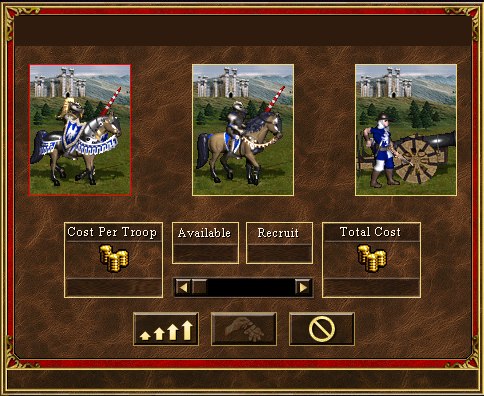
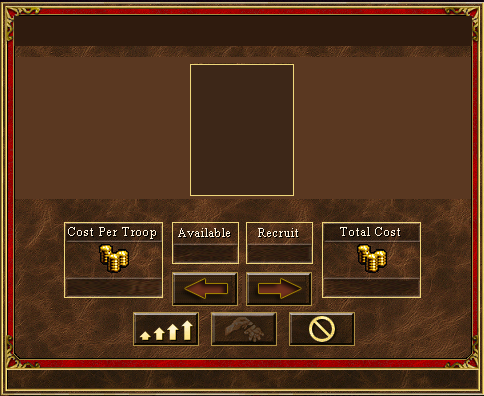
Design of overview => popup msg

Changed region(s): [[0.031, 0.1212, 0.9917, 0.5152], [0.3409, 0.6667, 0.6508, 0.7879], [0.6508, 0.1515, 0.6818, 0.1818]]

diff --git a/public/app/overview/overview.html b/public/app/overview/overview.html
@@ -1,1 +1,1 @@
-<div class="container"><div class="jumbotron"><h1>Overview Page</h1><p>Stats about how much Xp you have, how much gold and all game stats (including your castle information)</p><div class="center-block text-center"><div ng-click="recruit(100)" id="overview-panel" style="width: 800px; height: 556px; margin: 0 auto"><div id="data-filler" style="position: absolute; z-index: 100; color: #fff; line-height: 15px; font-size: 15px"><span style="position: absolute; left:120px; top:133px; z-index: 500">{{ userTroops.user.troops[0] }}</span><div><span style="position: absolute; left:360px; top:26px; z-index: 500">{{ troopsInfo[0].attack }}</span><span style="position: absolute; left:360px; top:46px; z-index: 500">{{ troopsInfo[0].defense }}</span><span style="position: absolute; left:360px; top:68px; z-index: 500">{{ troopsInfo[0].damage }}</span><span style="position: absolute; left:360px; top:88px; z-index: 500">{{ troopsInfo[0].health }}</span><span style="position: absolute; left:360px; top:108px; z-index: 500">{{ troopsInfo[0].speed }}</span><span style="position: absolute; left:360px; top:128px; z-index: 500">{{ troopsInfo[0].growth }}</span></div><span style="position: absolute; left:513px; top:133px; z-index: 500">{{ userTroops.user.troops[1] }}</span><div><span style="position: absolute; left:750px; top:26px; z-index: 500">{{ troopsInfo[1].attack }}</span><span style="position: absolute; left:750px; top:46px; z-index: 500">{{ troopsInfo[1].defense }}</span><span style="position: absolute; left:750px; top:68px; z-index: 500">{{ troopsInfo[1].damage }}</span><span style="position: absolute; left:750px; top:88px; z-index: 500">{{ troopsInfo[1].health }}</span><span style="position: absolute; left:750px; top:108px; z-index: 500">{{ troopsInfo[1].speed }}</span><span style="position: absolute; left:750px; top:128px; z-index: 500">{{ troopsInfo[1].growth }}</span></div><span style="position: absolute; left:120px; top:266px; z-index: 500">{{ userTroops.user.troops[2] }}</span><div><span style="position: absolute; left:360px; top:159px; z-index: 500">{{ troopsInfo[2].attack }}</span><span style="position: absolute; left:360px; top:179px; z-index: 500">{{ troopsInfo[2].defense }}</span><span style="position: absolute; left:360px; top:201px; z-index: 500">{{ troopsInfo[2].damage }}</span><span style="position: absolute; left:360px; top:221px; z-index: 500">{{ troopsInfo[2].health }}</span><span style="position: absolute; left:360px; top:241px; z-index: 500">{{ troopsInfo[2].speed }}</span><span style="position: absolute; left:360px; top:261px; z-index: 500">{{ troopsInfo[2].growth }}</span></div><span style="position: absolute; left:513px; top:266px; z-index: 500">{{ userTroops.user.troops[3] }}</span><div><span style="position: absolute; left:750px; top:159px; z-index: 500">{{ troopsInfo[3].attack }}</span><span style="position: absolute; left:750px; top:179px; z-index: 500">{{ troopsInfo[3].defense }}</span><span style="position: absolute; left:750px; top:201px; z-index: 500">{{ troopsInfo[3].damage }}</span><span style="position: absolute; left:750px; top:221px; z-index: 500">{{ troopsInfo[3].health }}</span><span style="position: absolute; left:750px; top:241px; z-index: 500">{{ troopsInfo[3].speed }}</span><span style="position: absolute; left:750px; top:261px; z-index: 500">{{ troopsInfo[3].growth }}</span></div><span style="position: absolute; left:120px; top:400px; z-index: 500">{{ userTroops.user.troops[4] }}</span><div><span style="position: absolute; left:360px; top:292px; z-index: 500">{{ troopsInfo[4].attack }}</span><span style="position: absolute; left:360px; top:312px; z-index: 500">{{ troopsInfo[4].defense }}</span><span style="position: absolute; left:360px; top:334px; z-index: 500">{{ troopsInfo[4].damage }}</span><span style="position: absolute; left:360px; top:354px; z-index: 500">{{ troopsInfo[4].health }}</span><span style="position: absolute; left:360px; top:374px; z-index: 500">{{ troopsInfo[4].speed }}</span><span style="position: absolute; left:360px; top:394px; z-index: 500">{{ troopsInfo[4].growth }}</span></div><span style="position: absolute; left:513px; top:400px; z-index: 500">{{ userTroops.user.troops[5] }}</span><div><span style="position: absolute; left:750px; top:292px; z-index: 500">{{ troopsInfo[5].attack }}</span><span style="position: absolute; left:750px; top:312px; z-index: 500">{{ troopsInfo[5].defense }}</span><span style="position: absolute; left:750px; top:334px; z-index: 500">{{ troopsInfo[5].damage }}</span><span style="position: absolute; left:750px; top:354px; z-index: 500">{{ troopsInfo[5].health }}</span><span style="position: absolute; left:750px; top:374px; z-index: 500">{{ troopsInfo[5].speed }}</span><span style="position: absolute; left:750px; top:394px; z-index: 500">{{ troopsInfo[5].growth }}</span></div><span style="position: absolute; left:313px; top:532px; z-index: 500">{{ userTroops.user.troops[6] }}</span><div><span style="position: absolute; left:550px; top:425px; z-index: 500">{{ troopsInfo[6].attack }}</span><span style="position: absolute; left:550px; top:445px; z-index: 500">{{ troopsInfo[6].defense }}</span><span style="position: absolute; left:550px; top:467px; z-index: 500">{{ troopsInfo[6].damage }}</span><span style="position: absolute; left:550px; top:487px; z-index: 500">{{ troopsInfo[6].health }}</span><span style="position: absolute; left:550px; top:509px; z-index: 500">{{ troopsInfo[6].speed }}</span><span style="position: absolute; left:550px; top:529px; z-index: 500">{{ troopsInfo[6].growth }}</span></div></div><img src="img/overview.gif"/></div></div></div></div>
+<div class="container"><div class="jumbotron"><h1>Overview Page</h1><p>Stats about how much Xp you have, how much gold and all game stats (including your castle information)</p><div class="center-block text-center"><div id="overview-panel" style="position: relative; width: 800px; height: 556px; margin: 0 auto"><div id="data-filler" style="position: absolute; z-index: 100; color: #fff; line-height: 15px; font-size: 15px"><div ng-click="recruit(troopsInfo[0])" style="position: absolute; left: 0; top: 0; width: 400px; height: 150px; z-index: 1000"><span style="position: absolute; left:120px; top:133px; z-index: 500">{{ userTroops.castle[0].troopsForSale[0] }}</span><div><span style="position: absolute; left:360px; top:26px; z-index: 500">{{ troopsInfo[0].attack }}</span><span style="position: absolute; left:360px; top:46px; z-index: 500">{{ troopsInfo[0].defense }}</span><span style="position: absolute; left:360px; top:68px; z-index: 500">{{ troopsInfo[0].damage }}</span><span style="position: absolute; left:360px; top:88px; z-index: 500">{{ troopsInfo[0].health }}</span><span style="position: absolute; left:360px; top:108px; z-index: 500">{{ troopsInfo[0].speed }}</span><span style="position: absolute; left:360px; top:128px; z-index: 500">{{ troopsInfo[0].growth }}</span></div></div><div ng-click="recruit(troopsInfo[1])" style="position: absolute; left: 410px; top: 0; width: 400px; height: 150px; z-index: 1000"></div><span ng-click="recruit(troopsInfo[1])" style="position: absolute; left:513px; top:133px; z-index: 500">{{ userTroops.castle[0].troopsForSale[1] }}</span><div><span style="position: absolute; left:750px; top:26px; z-index: 500">{{ troopsInfo[1].attack }}</span><span style="position: absolute; left:750px; top:46px; z-index: 500">{{ troopsInfo[1].defense }}</span><span style="position: absolute; left:750px; top:68px; z-index: 500">{{ troopsInfo[1].damage }}</span><span style="position: absolute; left:750px; top:88px; z-index: 500">{{ troopsInfo[1].health }}</span><span style="position: absolute; left:750px; top:108px; z-index: 500">{{ troopsInfo[1].speed }}</span><span style="position: absolute; left:750px; top:128px; z-index: 500">{{ troopsInfo[1].growth }}</span></div><span ng-click="recruit(troopsInfo[2])" style="position: absolute; left:120px; top:266px; z-index: 500">{{ userTroops.castle[0].troopsForSale[2] }}</span><div><span style="position: absolute; left:360px; top:159px; z-index: 500">{{ troopsInfo[2].attack }}</span><span style="position: absolute; left:360px; top:179px; z-index: 500">{{ troopsInfo[2].defense }}</span><span style="position: absolute; left:360px; top:201px; z-index: 500">{{ troopsInfo[2].damage }}</span><span style="position: absolute; left:360px; top:221px; z-index: 500">{{ troopsInfo[2].health }}</span><span style="position: absolute; left:360px; top:241px; z-index: 500">{{ troopsInfo[2].speed }}</span><span style="position: absolute; left:360px; top:261px; z-index: 500">{{ troopsInfo[2].growth }}</span></div><span ng-click="recruit(troopsInfo[3])" style="position: absolute; left:513px; top:266px; z-index: 500">{{ userTroops.castle[0].troopsForSale[3] }}</span><div><span style="position: absolute; left:750px; top:159px; z-index: 500">{{ troopsInfo[3].attack }}</span><span style="position: absolute; left:750px; top:179px; z-index: 500">{{ troopsInfo[3].defense }}</span><span style="position: absolute; left:750px; top:201px; z-index: 500">{{ troopsInfo[3].damage }}</span><span style="position: absolute; left:750px; top:221px; z-index: 500">{{ troopsInfo[3].health }}</span><span style="position: absolute; left:750px; top:241px; z-index: 500">{{ troopsInfo[3].speed }}</span><span style="position: absolute; left:750px; top:261px; z-index: 500">{{ troopsInfo[3].growth }}</span></div><span ng-click="recruit(troopsInfo[4])" style="position: absolute; left:120px; top:400px; z-index: 500">{{ userTroops.castle[0].troopsForSale[4] }}</span><div><span style="position: absolute; left:360px; top:292px; z-index: 500">{{ troopsInfo[4].attack }}</span><span style="position: absolute; left:360px; top:312px; z-index: 500">{{ troopsInfo[4].defense }}</span><span style="position: absolute; left:360px; top:334px; z-index: 500">{{ troopsInfo[4].damage }}</span><span style="position: absolute; left:360px; top:354px; z-index: 500">{{ troopsInfo[4].health }}</span><span style="position: absolute; left:360px; top:374px; z-index: 500">{{ troopsInfo[4].speed }}</span><span style="position: absolute; left:360px; top:394px; z-index: 500">{{ troopsInfo[4].growth }}</span></div><span ng-click="recruit(troopsInfo[5])" style="position: absolute; left:513px; top:400px; z-index: 500">{{ userTroops.castle[0].troopsForSale[5] }}</span><div><span style="position: absolute; left:750px; top:292px; z-index: 500">{{ troopsInfo[5].attack }}</span><span style="position: absolute; left:750px; top:312px; z-index: 500">{{ troopsInfo[5].defense }}</span><span style="position: absolute; left:750px; top:334px; z-index: 500">{{ troopsInfo[5].damage }}</span><span style="position: absolute; left:750px; top:354px; z-index: 500">{{ troopsInfo[5].health }}</span><span style="position: absolute; left:750px; top:374px; z-index: 500">{{ troopsInfo[5].speed }}</span><span style="position: absolute; left:750px; top:394px; z-index: 500">{{ troopsInfo[5].growth }}</span></div><span ng-click="recruit(troopsInfo[6])" style="position: absolute; left:313px; top:532px; z-index: 500">{{ userTroops.castle[0].troopsForSale[6] }}</span><div><span style="position: absolute; left:550px; top:425px; z-index: 500">{{ troopsInfo[6].attack }}</span><span style="position: absolute; left:550px; top:445px; z-index: 500">{{ troopsInfo[6].defense }}</span><span style="position: absolute; left:550px; top:467px; z-index: 500">{{ troopsInfo[6].damage }}</span><span style="position: absolute; left:550px; top:487px; z-index: 500">{{ troopsInfo[6].health }}</span><span style="position: absolute; left:550px; top:509px; z-index: 500">{{ troopsInfo[6].speed }}</span><span style="position: absolute; left:550px; top:529px; z-index: 500">{{ troopsInfo[6].growth }}</span></div></div><img src="img/overview.gif"/></div></div></div></div>

diff --git a/public/app/services/overviewNotifier.js b/public/app/services/overviewNotifier.js
@@ -3,30 +3,40 @@ app.factory('overviewNotifier', ['$q', function($q) {
 
     var mapHolder = $('#overview-panel');
 
-    var holder = $('<div />').css('position','absolute').css('top','350px').css('color','white').width('484px')
-        .css('left',(screen.availWidth / 2 - 235) + 'px').css('background-size','strech').css('z-index', 100);
+    var holder = $('<div />').css('position','absolute').css('top','100px').css('color','white').width('484px')
+        .css('left', '150px').css('background-size','strech').css('z-index', 100);
 
     var title = $('<p />').css('position','absolute').css('top','20px').css('left','27px').css('z-index', 100).appendTo(holder);
 
     var text = $('<p />').css('position','absolute').css('left','13px').css('z-index', 100).appendTo(holder);
 
-    var okBtn = $('<div />').css('position','absolute').width('32px').height('16px')
-        .css('bottom','15px').css('left','42px').css('z-index', 100).appendTo(holder);
+    var image = $('<img>').css('position', 'absolute').css('left', '191px').css('top', '65px').css('z-index', '1500');
 
-    var cnclBtn = $('<div />').css('position','absolute').width('32px').height('16px')
-        .css('bottom','15px').css('right','42px').css('z-index', 100).appendTo(holder);
+//    var okBtn = $('<div />').css('position','absolute').width('32px').height('16px')
+//        .css('bottom','15px').css('left','42px').css('z-index', 100).appendTo(holder);
+//
+//    var cnclBtn = $('<div />').css('position','absolute').width('32px').height('16px')
+//        .css('bottom','15px').css('right','42px').css('z-index', 100).appendTo(holder);
 
     return {
-        recruit: function(amount) {
+        recruit: function(troop) {
+            console.log('======================');
+            console.log(troop);
+            console.log('======================');
+            //amount = 100;
             var deferred = $q.defer();
 
+            image.attr('src', troop.image)
+            image.show();
             title.show();
-            title.text(amount + ' Halberdiers');
+            title.text(troop.name);
+            image.appendTo(holder);
+
             //text.text('Do you want to fight?').css('bottom','25px');
-            cnclBtn.show();
-            okBtn.show();
-            cnclBtn.click(function() {holder.hide(); deferred.reject()});
-            okBtn.click(function() {holder.hide(); deferred.resolve()});
+//            cnclBtn.show();
+//            okBtn.show();
+//            cnclBtn.click(function() {holder.hide(); deferred.reject()});
+//            okBtn.click(function() {holder.hide(); deferred.resolve()});
             holder.css('background-image', 'url("../../img/recruit.png")').height('396px');
             holder.appendTo($('#overview-panel')).hide().fadeIn();
 

diff --git a/public/app/services/troopsModel.js b/public/app/services/troopsModel.js
@@ -4,6 +4,7 @@ app.factory('troopsModel', [function() {
     return [
         {
             name: 'Halberdiers',
+            image: './img/troops/halberdier.gif',
             attack: 6,
             defense: 5,
             damage: 2,
@@ -13,6 +14,7 @@ app.factory('troopsModel', [function() {
             cost: 130
         },{
             name: 'Marksmen',
+            image: './img/troops/halberdier.gif',
             attack: 8,
             defense: 4,
             damage: 4,
@@ -22,6 +24,7 @@ app.factory('troopsModel', [function() {
             cost: 300
         },{
             name: 'Royal Griffins',
+            image: './img/troops/halberdier.gif',
             attack: 9,
             defense: 9,
             damage: 6,
@@ -31,6 +34,7 @@ app.factory('troopsModel', [function() {
             cost: 440
         },{
             name: 'Crusaders',
+            image: './img/troops/halberdier.gif',
             attack: 12,
             defense: 12,
             damage: 9,
@@ -40,6 +44,7 @@ app.factory('troopsModel', [function() {
             cost: 760
         },{
             name: 'Zealots',
+            image: './img/troops/halberdier.gif',
             attack: 12,
             defense: 10,
             damage: 12,
@@ -49,6 +54,7 @@ app.factory('troopsModel', [function() {
             cost: 1000
         },{
             name: 'Champions',
+            image: './img/troops/halberdier.gif',
             attack: 16,
             defense: 16,
             damage: 24,
@@ -58,6 +64,7 @@ app.factory('troopsModel', [function() {
             cost: 1500
         },{
             name: 'Archangels',
+            image: './img/troops/halberdier.gif',
             attack: 30,
             defense: 30,
             damage: 50,
